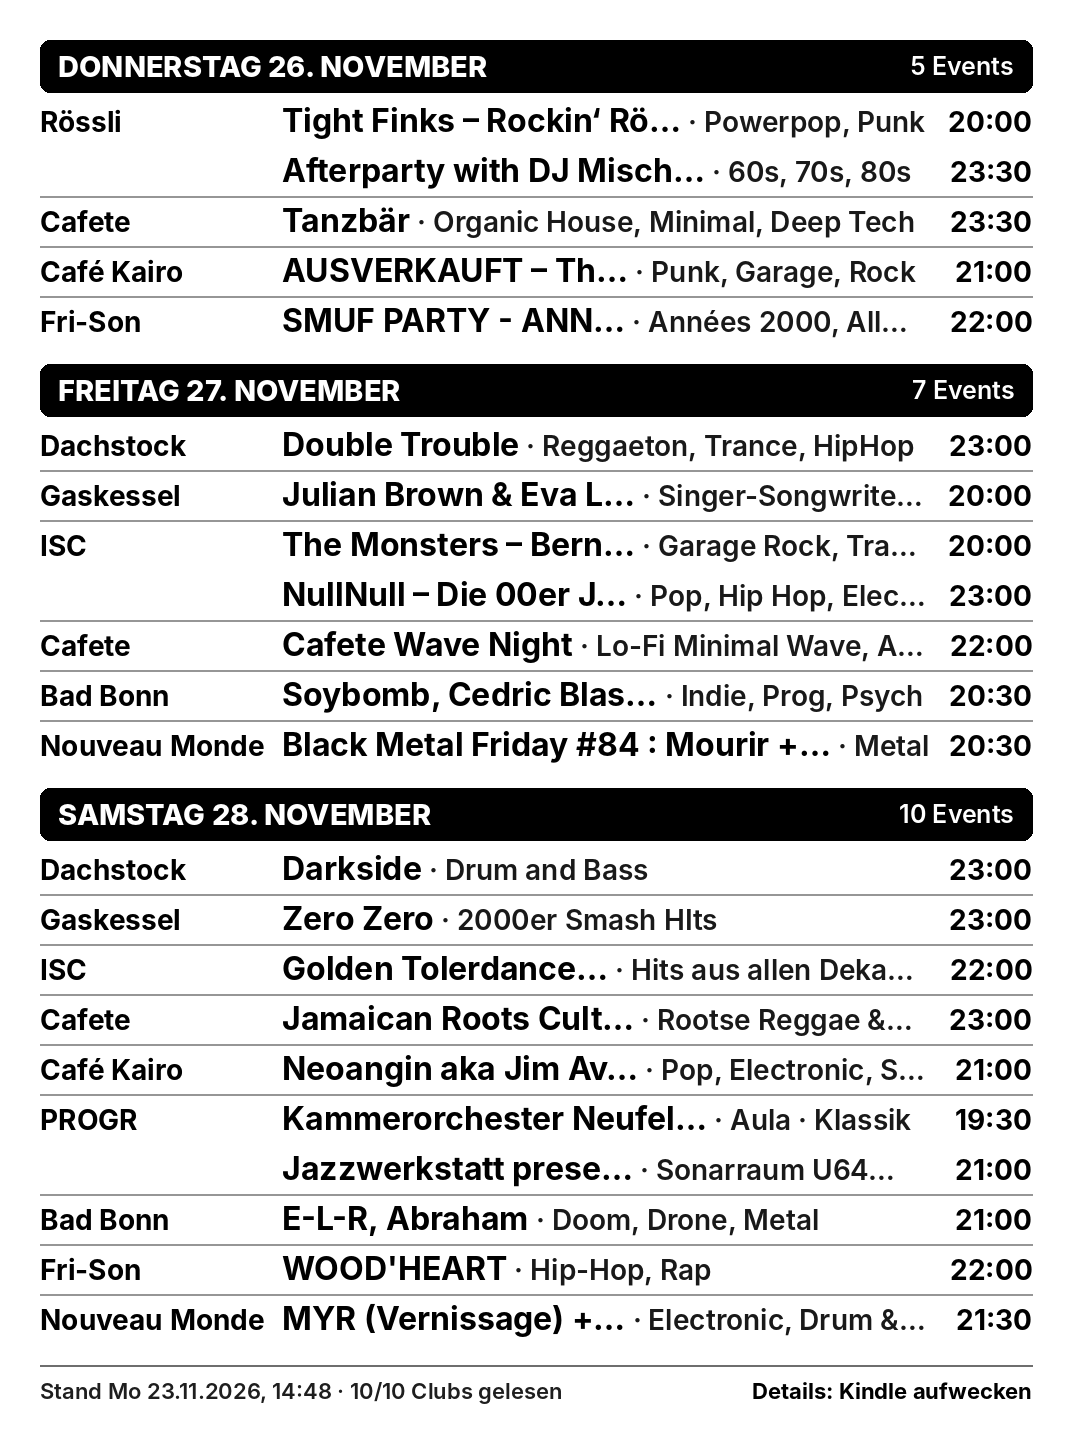
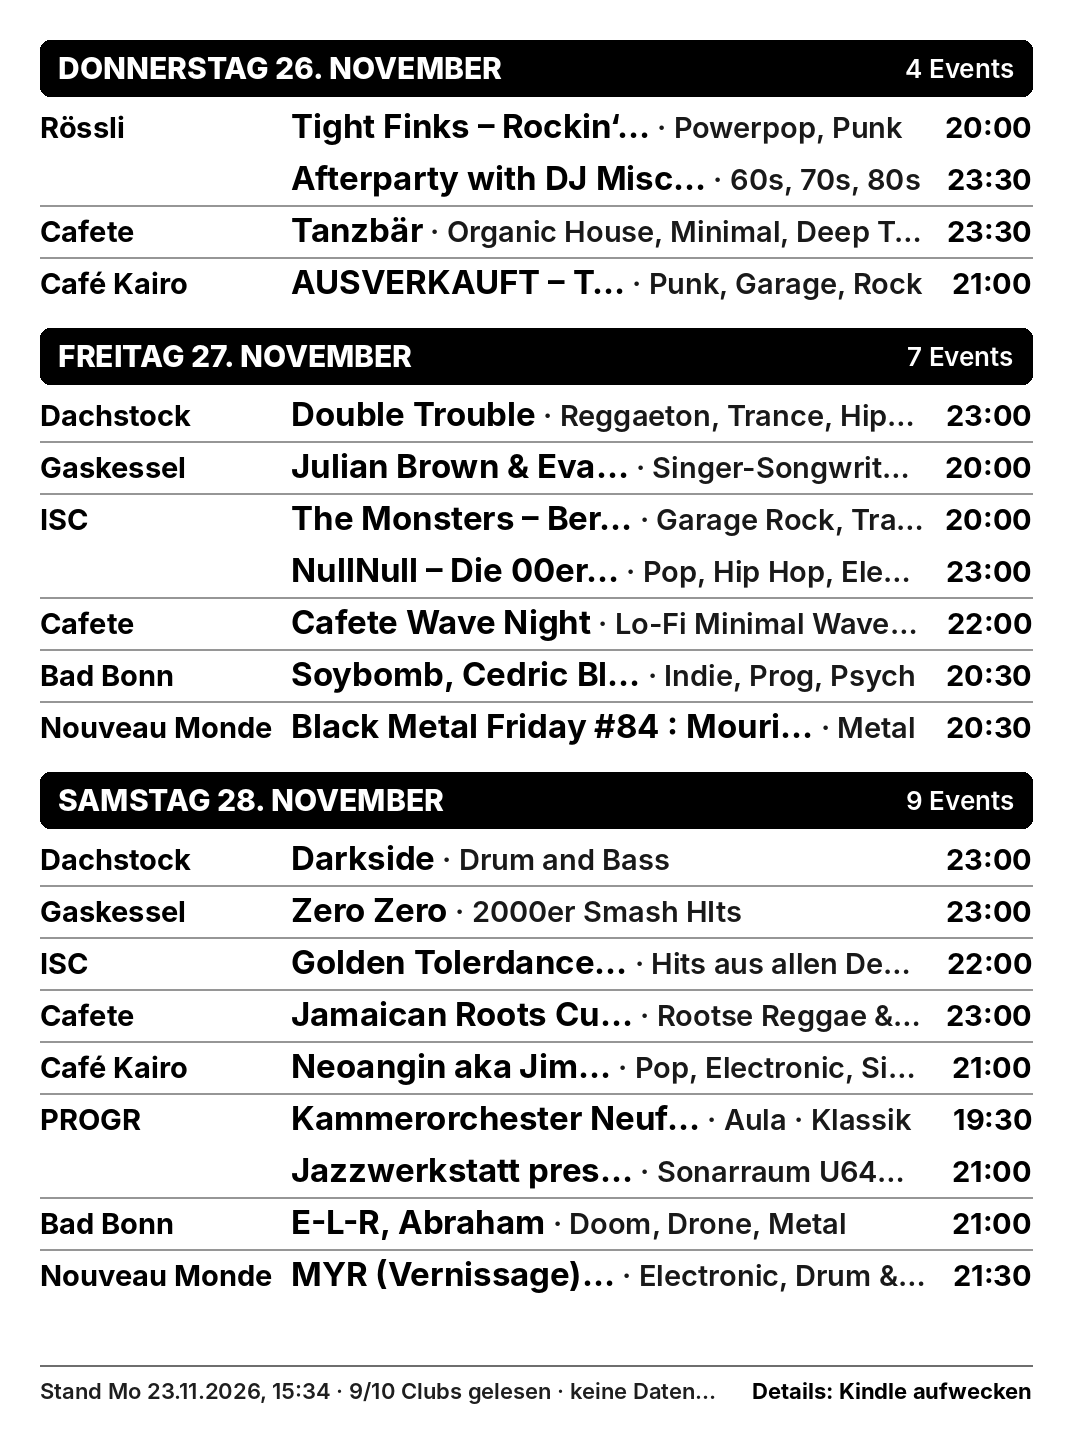
Kalender-Update 2026-11-23

Changed region(s): [[0.0308, 0.0311, 0.9851, 0.9945]]

diff --git a/docs/index.html b/docs/index.html
@@ -1,28 +1,26 @@
 <!DOCTYPE html>
 <html lang="de"><head><meta charset="utf-8"><meta name="viewport" content="width=device-width, initial-scale=1"><meta http-equiv="refresh" content="21600"><title>Konzertkalender – Do 26. – Sa 28. November 2026</title><style>html,body{margin:0;padding:0;background:#fff}#kalender{position:relative;margin:0 auto;width:100%;max-width:74.03vh}#kalender img{display:block;width:100%;height:auto;border:0}#kalender a{position:absolute;left:0;right:0;display:block;background:rgba(255,255,255,0)}</style></head><body>
-<div id="kalender"><img src="kalender.png?v=dd95469d7c" width="1072" height="1448" alt="Konzertkalender Do 26. – Sa 28. November 2026">
-<a href="https://www.souslepont-roessli.ch/events/tight-finks-rockin-roessli-vol-5-support-the-melmacs/" title="20:00 Tight Finks – Rockin‘ Rössli – Vol. 5 Support; The Melmacs, Afterparty with DJ Mischeria – Rössli" style="top:6.98%;height:3.45%"></a>
-<a href="https://www.souslepont-roessli.ch/events/afterparty-with-dj-mischeria/" title="23:30 Afterparty with DJ Mischeria – Rössli" style="top:10.43%;height:3.45%"></a>
-<a href="https://cafete.ch/" title="23:30 Tanzbär – Cafete" style="top:13.88%;height:3.45%"></a>
-<a href="https://www.cafe-kairo.ch/programm" title="21:00 AUSVERKAUFT – The Monsters Plattentaufe / Support: Andreas Trash Band – Café Kairo" style="top:17.33%;height:3.45%"></a>
-<a href="https://www.fri-son.ch/de/evenement/smuf-1" title="22:00 SMUF PARTY - ANNÉES 2000 – Fri-Son" style="top:20.79%;height:3.45%"></a>
-<a href="https://dachstock.ch/events/27-11-2026-double-trouble" title="23:00 Double Trouble – Dachstock" style="top:29.35%;height:3.45%"></a>
-<a href="https://gaskessel.ch/programm/julian-brown-eva-leandra/" title="20:00 Julian Brown &amp; Eva Leandra – Gaskessel" style="top:32.80%;height:3.45%"></a>
-<a href="https://isc-club.ch/programm/the-monsters-bern-in-hell-tour/" title="20:00 The Monsters – Bern-In-Hell Tour – ISC" style="top:36.26%;height:3.45%"></a>
-<a href="https://isc-club.ch/programm/nullnull-2/" title="23:00 NullNull – Die 00er Jahre Disco – ISC" style="top:39.71%;height:3.45%"></a>
-<a href="https://cafete.ch/" title="22:00 Cafete Wave Night – Cafete" style="top:43.16%;height:3.45%"></a>
-<a href="https://club.badbonn.ch/archive/2026/soybomb-cedric-blaser" title="20:30 Soybomb, Cedric Blaser, Bürgerkratiepiano – Bad Bonn" style="top:46.62%;height:3.45%"></a>
-<a href="https://www.nouveaumonde.ch/agenda/full-metal-84/" title="20:30 Black Metal Friday #84 : Mourir + bleak (Vernissage) + Molasse – Nouveau Monde" style="top:50.07%;height:3.45%"></a>
-<a href="https://dachstock.ch/events/28-11-2026-darkside" title="23:00 Darkside – Dachstock" style="top:58.63%;height:3.45%"></a>
-<a href="https://gaskessel.ch/programm/zero-zero-nov-26/" title="23:00 Zero Zero – Gaskessel" style="top:62.09%;height:3.45%"></a>
-<a href="https://isc-club.ch/programm/golden-tolerdance-diva-night/" title="22:00 Golden Tolerdance – DIVA NIGHT – ISC" style="top:65.54%;height:3.45%"></a>
-<a href="https://cafete.ch/" title="23:00 Jamaican Roots Culture #53 – Cafete" style="top:68.99%;height:3.45%"></a>
-<a href="https://www.cafe-kairo.ch/programm" title="21:00 Neoangin aka Jim Avignon + Taranja Wu – Café Kairo" style="top:72.44%;height:3.45%"></a>
-<a href="https://www.progr.ch/de/agenda/kammerorchester-neufeld-bern-bachtok-8754/" title="19:30 Kammerorchester Neufeld Bern – Bachtók – PROGR Aula" style="top:75.90%;height:3.45%"></a>
-<a href="https://www.progr.ch/de/agenda/jazzwerkstatt-presents-keenan-ahrends-4tet-8697/" title="21:00 Jazzwerkstatt presents: Keenan Ahrends 4tet – Sonarraum U64 (PROGR)" style="top:79.35%;height:3.45%"></a>
-<a href="https://club.badbonn.ch/archive/2026/e-l-r-abraham" title="21:00 E-L-R, Abraham – Bad Bonn" style="top:82.80%;height:3.45%"></a>
-<a href="https://www.fri-son.ch/de/evenement/woodheart-0" title="22:00 WOOD&#x27;HEART – Fri-Son" style="top:86.26%;height:3.45%"></a>
-<a href="https://www.nouveaumonde.ch/agenda/myr-osmosis-emery/" title="21:30 MYR (Vernissage) + Osmosis + Afterparty by Emery – Nouveau Monde" style="top:89.71%;height:3.45%"></a>
+<div id="kalender"><img src="kalender.png?v=25f45e59ac" width="1072" height="1448" alt="Konzertkalender Do 26. – Sa 28. November 2026">
+<a href="https://www.souslepont-roessli.ch/events/tight-finks-rockin-roessli-vol-5-support-the-melmacs/" title="20:00 Tight Finks – Rockin‘ Rössli – Vol. 5 Support; The Melmacs, Afterparty with DJ Mischeria – Rössli" style="top:7.32%;height:3.59%"></a>
+<a href="https://www.souslepont-roessli.ch/events/afterparty-with-dj-mischeria/" title="23:30 Afterparty with DJ Mischeria – Rössli" style="top:10.91%;height:3.59%"></a>
+<a href="https://cafete.ch/" title="23:30 Tanzbär – Cafete" style="top:14.50%;height:3.59%"></a>
+<a href="https://www.cafe-kairo.ch/programm" title="21:00 AUSVERKAUFT – The Monsters Plattentaufe / Support: Andreas Trash Band – Café Kairo" style="top:18.09%;height:3.59%"></a>
+<a href="https://dachstock.ch/events/27-11-2026-double-trouble" title="23:00 Double Trouble – Dachstock" style="top:27.21%;height:3.59%"></a>
+<a href="https://gaskessel.ch/programm/julian-brown-eva-leandra/" title="20:00 Julian Brown &amp; Eva Leandra – Gaskessel" style="top:30.80%;height:3.59%"></a>
+<a href="https://isc-club.ch/programm/the-monsters-bern-in-hell-tour/" title="20:00 The Monsters – Bern-In-Hell Tour – ISC" style="top:34.39%;height:3.59%"></a>
+<a href="https://isc-club.ch/programm/nullnull-2/" title="23:00 NullNull – Die 00er Jahre Disco – ISC" style="top:37.98%;height:3.59%"></a>
+<a href="https://cafete.ch/" title="22:00 Cafete Wave Night – Cafete" style="top:41.57%;height:3.59%"></a>
+<a href="https://club.badbonn.ch/archive/2026/soybomb-cedric-blaser" title="20:30 Soybomb, Cedric Blaser, Bürgerkratiepiano – Bad Bonn" style="top:45.17%;height:3.59%"></a>
+<a href="https://www.nouveaumonde.ch/agenda/full-metal-84/" title="20:30 Black Metal Friday #84 : Mourir + bleak (Vernissage) + Molasse – Nouveau Monde" style="top:48.76%;height:3.59%"></a>
+<a href="https://dachstock.ch/events/28-11-2026-darkside" title="23:00 Darkside – Dachstock" style="top:57.87%;height:3.59%"></a>
+<a href="https://gaskessel.ch/programm/zero-zero-nov-26/" title="23:00 Zero Zero – Gaskessel" style="top:61.46%;height:3.59%"></a>
+<a href="https://isc-club.ch/programm/golden-tolerdance-diva-night/" title="22:00 Golden Tolerdance – DIVA NIGHT – ISC" style="top:65.06%;height:3.59%"></a>
+<a href="https://cafete.ch/" title="23:00 Jamaican Roots Culture #53 – Cafete" style="top:68.65%;height:3.59%"></a>
+<a href="https://www.cafe-kairo.ch/programm" title="21:00 Neoangin aka Jim Avignon + Taranja Wu – Café Kairo" style="top:72.24%;height:3.59%"></a>
+<a href="https://www.progr.ch/de/agenda/kammerorchester-neufeld-bern-bachtok-8754/" title="19:30 Kammerorchester Neufeld Bern – Bachtók – PROGR Aula" style="top:75.83%;height:3.59%"></a>
+<a href="https://www.progr.ch/de/agenda/jazzwerkstatt-presents-keenan-ahrends-4tet-8697/" title="21:00 Jazzwerkstatt presents: Keenan Ahrends 4tet – Sonarraum U64 (PROGR)" style="top:79.42%;height:3.59%"></a>
+<a href="https://club.badbonn.ch/archive/2026/e-l-r-abraham" title="21:00 E-L-R, Abraham – Bad Bonn" style="top:83.01%;height:3.59%"></a>
+<a href="https://www.nouveaumonde.ch/agenda/myr-osmosis-emery/" title="21:30 MYR (Vernissage) + Osmosis + Afterparty by Emery – Nouveau Monde" style="top:86.60%;height:3.59%"></a>
 <a href="liste.html" title="Alle Events als Liste" style="top:94.27%;height:5.73%"></a>
 </div>
 <script>(function(){var k=document.getElementById('kalender');function fit(){k.style.width=Math.min(window.innerWidth,Math.floor(window.innerHeight*0.7403))+'px';}fit();window.onresize=fit;})();</script>

diff --git a/docs/liste.html b/docs/liste.html
@@ -24,7 +24,6 @@ a{color:#000;text-decoration:none}
 <tr class="more"><td class="club"></td><td><a href="https://www.souslepont-roessli.ch/events/afterparty-with-dj-mischeria/"><span class="title">Afterparty with DJ Mischeria</span><span class="meta">Party · 60s, 70s, 80s ›</span></a></td><td class="time">23:30</td></tr>
 <tr class="club"><td class="club">Cafete</td><td><a href="https://cafete.ch/"><span class="title">Tanzbär</span><span class="meta">Party · Organic House, Minimal, Deep Tech ›</span></a></td><td class="time">23:30</td></tr>
 <tr class="club"><td class="club">Café Kairo</td><td><a href="https://www.cafe-kairo.ch/programm"><span class="title">AUSVERKAUFT – The Monsters Plattentaufe / Support: Andreas Trash Band</span><span class="meta">Konzert · Punk, Garage, Rock ›</span></a></td><td class="time">21:00</td></tr>
-<tr class="club"><td class="club">Fri-Son</td><td><a href="https://www.fri-son.ch/de/evenement/smuf-1"><span class="title">SMUF PARTY - ANNÉES 2000</span><span class="meta">Party · Années 2000, All-Styles ›</span></a></td><td class="time">22:00</td></tr>
 </table>
 <h2>FREITAG 27. NOVEMBER</h2>
 <table>
@@ -46,8 +45,7 @@ a{color:#000;text-decoration:none}
 <tr class="club"><td class="club">PROGR</td><td><a href="https://www.progr.ch/de/agenda/kammerorchester-neufeld-bern-bachtok-8754/"><span class="title">Kammerorchester Neufeld Bern – Bachtók</span><span class="meta">Aula · Konzert · Klassik ›</span></a></td><td class="time">19:30</td></tr>
 <tr class="more"><td class="club"></td><td><a href="https://www.progr.ch/de/agenda/jazzwerkstatt-presents-keenan-ahrends-4tet-8697/"><span class="title">Jazzwerkstatt presents: Keenan Ahrends 4tet</span><span class="meta">Sonarraum U64 · Konzert · Jazz, Improvisation ›</span></a></td><td class="time">21:00</td></tr>
 <tr class="club"><td class="club">Bad Bonn</td><td><a href="https://club.badbonn.ch/archive/2026/e-l-r-abraham"><span class="title">E-L-R, Abraham</span><span class="meta">Konzert · Doom, Drone, Metal ›</span></a></td><td class="time">21:00</td></tr>
-<tr class="club"><td class="club">Fri-Son</td><td><a href="https://www.fri-son.ch/de/evenement/woodheart-0"><span class="title">WOOD&#x27;HEART</span><span class="meta">Konzert · Hip-Hop, Rap ›</span></a></td><td class="time">22:00</td></tr>
 <tr class="club"><td class="club">Nouveau Monde</td><td><a href="https://www.nouveaumonde.ch/agenda/myr-osmosis-emery/"><span class="title">MYR (Vernissage) + Osmosis + Afterparty by Emery</span><span class="meta">Konzert · Electronic, Drum &amp; Bass, Techno ›</span></a></td><td class="time">21:30</td></tr>
 </table>
-<div class="footer">Stand Mo 23.11.2026, 14:48 · 10/10 Clubs gelesen · Eintrag antippen für Details</div>
+<div class="footer">Stand Mo 23.11.2026, 15:34 · 9/10 Clubs gelesen · keine Daten: Fri-Son · Eintrag antippen für Details</div>
 </body></html>
